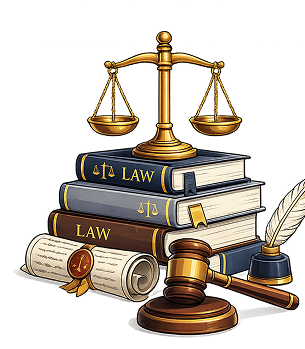
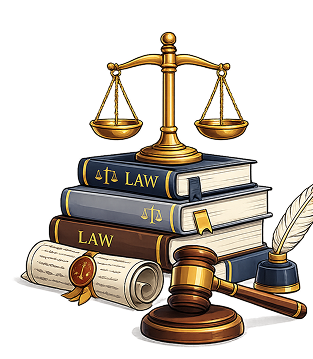
feat(onboarding): update onboarding screens with new content and styles

Changed region(s): [[0.059, 0.086, 1.0, 0.9456], [0.7672, 0.8023, 0.9738, 0.8883], [0.4721, 0.8883, 0.7967, 0.9742]]

diff --git a/lib/features/on_boarding/presentation/widgets/on_boarding_second_item.dart b/lib/features/on_boarding/presentation/widgets/on_boarding_second_item.dart
@@ -12,39 +12,41 @@ class OnBoardingSecondItem extends StatelessWidget {
 
   @override
   Widget build(BuildContext context) {
-    double scaleFactor = MediaQuery.of(context).textScaleFactor;
     return Column(
       children: [
-        SizedBox(height: 80.h),
+        SizedBox(height: 120.h),
         Padding(
           padding: EdgeInsets.symmetric(horizontal: 24.w),
           child: MultiStyledText(
             textAlign: TextAlign.center,
-            defaultStyle: AppTextStyles.h1Bold.copyWith(color: AppColors.white),
-            text: 'اتعلم وانت بتلعب',
+            defaultStyle: AppTextStyles.h3Bold.copyWith(color: AppColors.white),
+            text:
+                ' لا يساعدك على الحفظ فقط...\nبل يُدرِّب عقلك على التفكير القانوني.',
             highlightedWords: {
-              'بتلعب': AppTextStyles.h1Bold.copyWith(
-                color: AppColors.primary500,
+              'التفكير القانوني.': AppTextStyles.h3Bold.copyWith(
+                color: AppColors.gold,
               ),
             },
           ),
         ),
+        SizedBox(height: 10.h),
+
         CustomSvgimage(path: AssetsData.waveLine, hight: 20.h, width: 300.w),
-        SizedBox(height: 20.h),
-        scaleFactor > 1.2
-            ? const Text('')
-            : Padding(
-                padding: EdgeInsets.symmetric(horizontal: 40.w),
-                child: Text(
-                  'حل أسئلة، عدّي مستويات، واختبر نفسك في كل مرحلة لحد ما توصل لأعلى مستوى.',
-                  textAlign: TextAlign.center,
-                  style: AppTextStyles.body1SemiBold.copyWith(
-                    color: AppColors.gold50,
-                  ),
-                ),
-              ),
+        SizedBox(height: 10.h),
+        // scaleFactor > 1.2
+        //     ? const Text('')
+        //     : Padding(
+        //         padding: EdgeInsets.symmetric(horizontal: 40.w),
+        //         child: Text(
+        //           'حل أسئلة، عدّي مستويات، واختبر نفسك في كل مرحلة لحد ما توصل لأعلى مستوى.',
+        //           textAlign: TextAlign.center,
+        //           style: AppTextStyles.body1SemiBold.copyWith(
+        //             color: AppColors.gold50,
+        //           ),
+        //         ),
+        //       ),
         Center(
-          child: CustomImage(path: AssetsData.onBoarding_2, hight: 350.h),
+          child: CustomImage(path: AssetsData.onBoarding_2, hight: 300.h),
         ),
       ],
     );

diff --git a/lib/features/on_boarding/presentation/widgets/on_boarding_first_item.dart b/lib/features/on_boarding/presentation/widgets/on_boarding_first_item.dart
@@ -11,8 +11,6 @@ class OnBoardingFirstItem extends StatelessWidget {
 
   @override
   Widget build(BuildContext context) {
-    double scaleFactor = MediaQuery.of(context).textScaleFactor;
-
     return Column(
       crossAxisAlignment: CrossAxisAlignment.start,
       children: [
@@ -27,30 +25,32 @@ class OnBoardingFirstItem extends StatelessWidget {
               defaultStyle: AppTextStyles.h2Bold.copyWith(
                 color: AppColors.white,
               ),
-              text: 'طوّر مستواك في القانون',
+              text: 'صُمِّم للمحامين والباحثين وطلبة الحقوق.',
               highlightedWords: {
-                'القانون': AppTextStyles.h2Bold.copyWith(color: AppColors.gold),
+                'صُمِّم': AppTextStyles.h2Bold.copyWith(
+                  color: AppColors.primaryColor,
+                ),
               },
             ),
           ),
         ),
         SizedBox(height: 20.h),
         Align(
-          alignment: Alignment.centerRight,
+          alignment: Alignment.center,
           child: CustomImage(path: AssetsData.onBoarding_1, hight: 370.h),
         ),
-        scaleFactor > 1.2
-            ? const Text('')
-            : Padding(
-                padding: EdgeInsets.symmetric(horizontal: 40.w, vertical: 10.h),
-                child: Text(
-                  'ابدأ تتعلم القوانين بطريقة سهلة من خلال أسئلة بسيطة تساعدك تفهم وتثبت المعلومة.',
-                  textAlign: TextAlign.center,
-                  style: AppTextStyles.body1Regular.copyWith(
-                    color: AppColors.primaryColor100,
-                  ),
-                ),
-              ),
+        // scaleFactor > 1.2
+        //     ? const Text('')
+        //     : Padding(
+        //         padding: EdgeInsets.symmetric(horizontal: 40.w, vertical: 10.h),
+        //         child: Text(
+        //           'ابدأ تتعلم القوانين بطريقة سهلة من خلال أسئلة بسيطة تساعدك تفهم وتثبت المعلومة.',
+        //           textAlign: TextAlign.center,
+        //           style: AppTextStyles.body1Regular.copyWith(
+        //             color: AppColors.primaryColor100,
+        //           ),
+        //         ),
+        //       ),
       ],
     );
   }

diff --git a/lib/features/on_boarding/presentation/widgets/on_boarding_third_item.dart b/lib/features/on_boarding/presentation/widgets/on_boarding_third_item.dart
@@ -11,39 +11,39 @@ class OnBoardingThirdItem extends StatelessWidget {
 
   @override
   Widget build(BuildContext context) {
-    double scaleFactor = MediaQuery.of(context).textScaleFactor;
     return Column(
       children: [
-        SizedBox(height: 80.h),
+        SizedBox(height: 120.h),
         Padding(
           padding: EdgeInsets.symmetric(horizontal: 18.w),
           child: MultiStyledText(
-            textAlign: TextAlign.right,
-            defaultStyle: AppTextStyles.h1Bold.copyWith(color: AppColors.white),
-            text: 'خليك جاهز تبقى محامي شاطر',
+            defaultStyle: AppTextStyles.h3Bold.copyWith(color: AppColors.white),
+            text: 'يصنع الملكة القانونية\nويزيد سرعة الفهم\nودقة التحليل.',
             highlightedWords: {
-              'محامي شاطر': AppTextStyles.h1Bold.copyWith(
+              'ودقة التحليل.': AppTextStyles.h3Bold.copyWith(
                 color: AppColors.offWhite,
               ),
             },
           ),
         ),
+        SizedBox(height: 30.h),
+
         Center(
           child: CustomImage(path: AssetsData.onBoarding_3, hight: 350.h),
         ),
 
-        scaleFactor > 1.2
-            ? const Text('')
-            : Padding(
-                padding: EdgeInsets.symmetric(horizontal: 40.w),
-                child: Text(
-                  'كل سؤال بيقوّي تفكيرك القانوني ويقربك خطوة من شغلك \nكمحامي محترف',
-                  textAlign: TextAlign.right,
-                  style: AppTextStyles.body1Regular.copyWith(
-                    color: AppColors.white,
-                  ),
-                ),
-              ),
+        // scaleFactor > 1.2
+        //     ? const Text('')
+        //     : Padding(
+        //         padding: EdgeInsets.symmetric(horizontal: 40.w),
+        //         child: Text(
+        //           'كل سؤال بيقوّي تفكيرك القانوني ويقربك خطوة من شغلك \nكمحامي محترف',
+        //           textAlign: TextAlign.right,
+        //           style: AppTextStyles.body1Regular.copyWith(
+        //             color: AppColors.white,
+        //           ),
+        //         ),
+        //       ),
       ],
     );
   }

diff --git a/lib/features/on_boarding/presentation/pages/on_boarding_page.dart b/lib/features/on_boarding/presentation/pages/on_boarding_page.dart
@@ -25,8 +25,9 @@ class OnBoardingPage extends StatelessWidget {
     ];
 
     final List<Color> backgroundColors = [
+      AppColors.onboarding1GoldBackground,
+
       AppColors.primary500,
-      AppColors.gold,
       AppColors.onboarding3Background,
     ];
 
@@ -46,9 +47,7 @@ class OnBoardingPage extends StatelessWidget {
             currentIndex = state.index;
           }
 
-          final Color contentColor = currentIndex == 1
-              ? AppColors.primaryColor
-              : AppColors.gold;
+          final Color contentColor = AppColors.white;
 
           return Scaffold(
             backgroundColor: backgroundColors[currentIndex],

diff --git a/lib/core/theme/app_colors.dart b/lib/core/theme/app_colors.dart
@@ -102,6 +102,8 @@ class AppColors {
   static const gold = Color(0xffCBA452);
   static const gold400 = Color(0xffD5B675);
 
+  static const onboarding1GoldBackground = Color(0xffD1A560);
+
   static const onboarding3Background = Color(0xff4A7AC1);
 
   static const offWhite = Color(0xffEDE1C7);

diff --git a/lib/core/widgets/highlight_text.dart b/lib/core/widgets/highlight_text.dart
@@ -58,6 +58,7 @@ class MultiStyledText extends StatelessWidget {
 
     return RichText(
       textAlign: textAlign!,
+      textDirection: TextDirection.rtl,
       text: TextSpan(children: spans),
     );
   }
